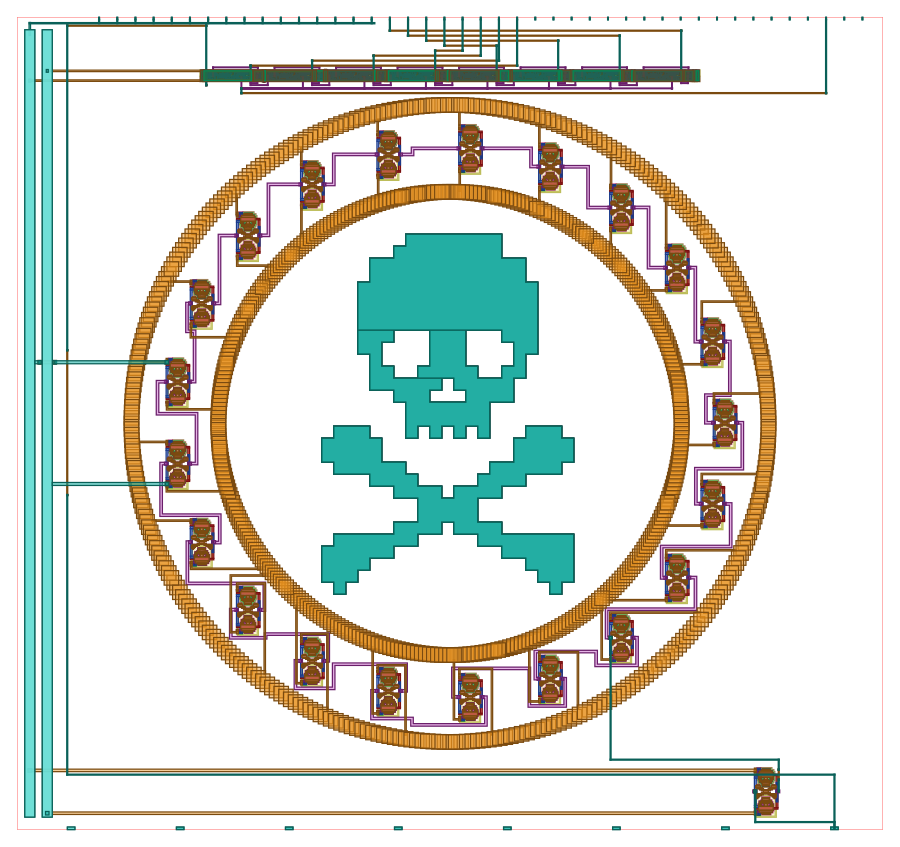
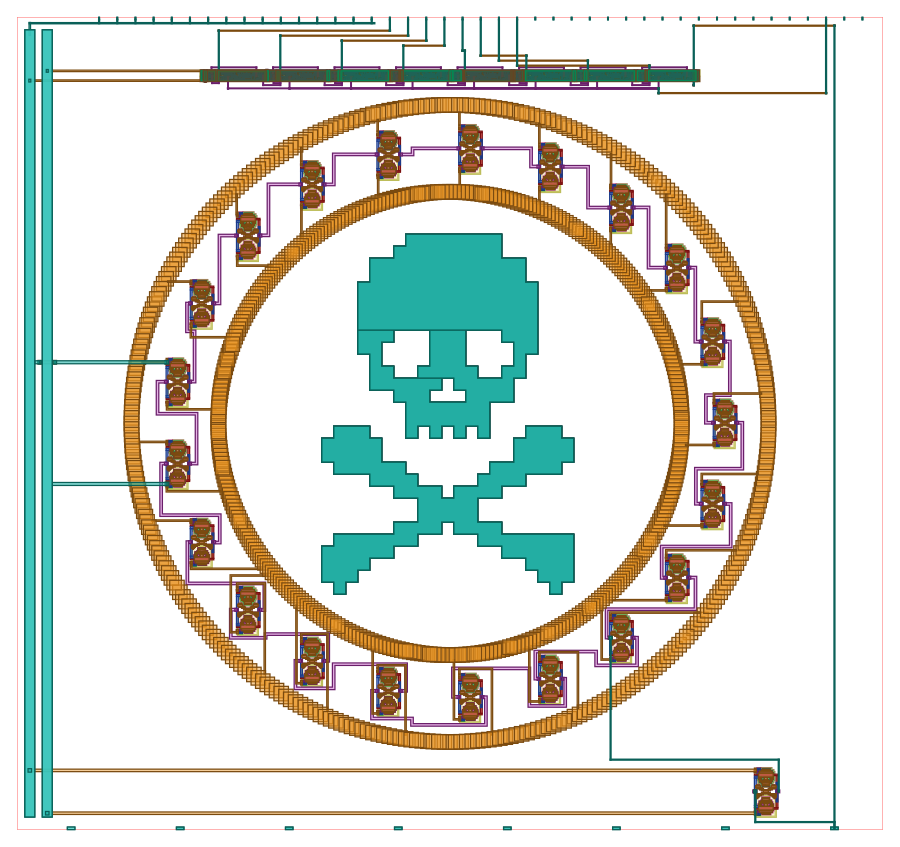
Mirror divider: LSB-first outputs that no longer cross, shorter clock
Horizontally mirror the std-cell divider row (x_reflection + 180°) so the
/2..256 stages line up with the pin order. The eight output taps now fan
straight down without crossing, and the clock rises up the free right edge
from the buffered ua[0] node (no left-edge detour, no Metal3 dip). Routing
drops from M4 147/M3 62 to M4 139/M3 56 shapes; the buffer OSC->A route
loses its dip too.

Also probe ua[0] directly in sim_ring.sh instead of a fragile internal
"a_*" ring node (the heuristic re-selected a /32 node after rebuild),
and fix the divider row labels to LSB-first. Post-layout SPICE: ua[0]
120.2 MHz, uo_out[0]=/2 60 MHz .. uo_out[7]=/256 0.47 MHz; Magic DRC 0.

diff --git a/scripts/build_gf180_macro.py b/scripts/build_gf180_macro.py
@@ -133,11 +133,8 @@ def add_ua_buffer(lib, top, pins, osc_xy):
     ox, oy = osc_xy
 
     # OSC -> A: down beside the ring, over the TOP of the buffer, then down into A (A and Y are at
-    # the same y, so approach A from above to avoid crossing the Y output). Dip to M3 across the
-    # divider's clock route (the M4 horizontal at y~22, which is on the ua[0]/output net).
-    _wire(top, [(ox, oy), (ox, BY + 13.0), (A[0], BY + 13.0), (A[0], 24.0)], w=0.4, layer=M4)
-    _via(top, A[0], 24.0, [M3, M4]); _wire(top, [(A[0], 24.0), (A[0], 20.0)], w=0.4, layer=M3)
-    _via(top, A[0], 20.0, [M3, M4]); _wire(top, [(A[0], 20.0), A], w=0.4, layer=M4)
+    # the same y, so approach A from above to avoid crossing the Y output).
+    _wire(top, [(ox, oy), (ox, BY + 13.0), (A[0], BY + 13.0), A], w=0.4, layer=M4)
     _via(top, *A, [M2, M3, M4])      # A already has a Metal2 pad; just via M2->M4
     # Y -> ua[0]: out the bottom of the buffer, across to the ua[0] pin
     _wire(top, [Y, (Y[0], BY - 12.0), (ua0_cx, BY - 12.0), (ua0_cx, 0.5)], w=0.4, layer=M4)
@@ -169,22 +166,23 @@ def tie_unused_low(top, pins, H):
 
 
 def add_divider(lib, top, pins, cx, cy, H, osc_xy):
-    """Place the N-stage /2../256 std-cell ripple divider centred in the top strip and wire it up.
+    """Place the N-stage /2../256 std-cell ripple divider in the top strip and wire it up.
 
-    Centred under the uo_out pin cluster. Mapping is LSB-first: stage j (DIV2^(j+1)) -> uo_out[j]
-    (uo_out[0]=/2 .. uo_out[N-1]=/256). Stages run left->right but pins run right->left, so these
-    routes cross; the M3-track (unique y) / M4-riser (unique x) discipline keeps crossings
-    short-free.
+    The row is built /2-leftmost but placed MIRRORED, so /2 ends up rightmost (next to uo_out[0])
+    and /256 leftmost. Mapping is LSB-first: stage j (DIV2^(j+1)) -> uo_out[j] (uo_out[0]=/2 ..
+    uo_out[N-1]=/256). The stage order now matches the pin order, so the output routes DON'T cross,
+    and CLK lands on the right next to ua[0] (short clock route). M3 = horizontal tracks (unique
+    y), M4 = vertical risers (unique x).
     """
     pdk_root = os.environ.get("PDK_ROOT", "")
     divcell, dp, std_cells = BD.build_divider(BD.STD_GDS_DEFAULT, pdk_root)
     lib.add(divcell, *std_cells)
     W = dp["_width"]; N = dp["_nstages"]
-    DX0, DY0 = round(cx - W / 2, 2), 300.0      # centred -> symmetric, non-crossing output fan
-    top.add(gdstk.Reference(divcell, (DX0, DY0)))
+    DX0, DY0 = round(cx - W / 2, 2), 300.0      # centred under the uo_out pins
+    top.add(gdstk.Reference(divcell, (DX0 + W, DY0), rotation=math.pi, x_reflection=True))
 
     def P(name):
-        v = dp[name]; return (DX0 + v[0], DY0 + v[1])
+        v = dp[name]; return (DX0 + W - v[0], DY0 + v[1])   # mirror: x flips, y unchanged
     pinrect = {n: r for (n, d, r) in pins}
     pin_cx = lambda n: (pinrect[n][0] + pinrect[n][2]) / 2
     def mvia(x, y): _via(top, x, y, [M3, M4])
@@ -206,12 +204,13 @@ def add_divider(lib, top, pins, cx, cy, H, osc_xy):
     VGND_X, VDPWR_X = VGND_SX + STRIPE_W / 2, VDPWR_SX + STRIPE_W / 2
     rail_vss, rail_vdd = DY0, DY0 + 3.9
     PW = 0.6                                     # power strap width (50% wider than the old 0.4um)
-    # inter-cell filltie columns (clear of the DFF Q risers) for the power taps
-    ties = [DX0 + BD.CAP_W + BD.DFF_W + BD.TIE_W + BD.INV_W + BD.TIE_W / 2
-            + j * (BD.DFF_W + 2 * BD.TIE_W + BD.INV_W) for j in range(N)]
+    # inter-cell filltie columns (clear of the DFF Q risers), mirrored; tap the two LEFTMOST ones
+    # so the straps to the left-edge stripes stay short.
+    ties = [DX0 + W - (BD.CAP_W + BD.DFF_W + BD.TIE_W + BD.INV_W + BD.TIE_W / 2
+            + j * (BD.DFF_W + 2 * BD.TIE_W + BD.INV_W)) for j in range(N)]
 
     # --- power: VSS rail -> VGND stripe, VDD rail -> VDPWR stripe (both on the left edge) ---
-    vss_tap, vdd_tap = ties[0], ties[1]
+    vss_tap, vdd_tap = ties[-1], ties[-2]
     beefy(vss_tap, rail_vss, [M1, M2, M3])
     _wire(top, [(vss_tap, rail_vss), (VGND_X, rail_vss)], w=PW, layer=M3)
     beefy(VGND_X, rail_vss, [M3, M4])
@@ -224,17 +223,13 @@ def add_divider(lib, top, pins, cx, cy, H, osc_xy):
     t_clk = DY0 + 22.0                                   # 322
     t_rn = DY0 - 5.0                                     # 295 (below the row, above the ring)
 
-    # --- clock: OSC up the left edge to CLK (leftmost stage), M3 dip across the two left-edge
-    #     supply connectors (VDPWR ~138, VGND ~187) ---
+    # --- clock: ua[0] (buffered OSC) up the FREE right edge to CLK (the mirror put CLK on the
+    #     rightmost stage, next to ua[0]) ---
     ua0r = next(r for (n, d, r) in pins if n == "ua[0]")
     tapx = (ua0r[0] + ua0r[2]) / 2
-    csx = 20.0
     ck = P("CLK")
-    _wire(top, [(tapx, 0.5), (tapx, 22.0), (csx, 22.0)], w=0.4, layer=M4)
-    _wire(top, [(csx, 22.0), (csx, 134.0)], w=0.4, layer=M4)
-    mvia(csx, 134.0); _wire(top, [(csx, 134.0), (csx, 192.0)], w=0.4, layer=M3)
-    mvia(csx, 192.0); _wire(top, [(csx, 192.0), (csx, t_clk)], w=0.4, layer=M4)
-    mvia(csx, t_clk); _wire(top, [(csx, t_clk), (ck[0], t_clk)], w=0.4, layer=M3)
+    _wire(top, [(tapx, 0.5), (tapx, t_clk)], w=0.4, layer=M4)
+    mvia(tapx, t_clk); _wire(top, [(tapx, t_clk), (ck[0], t_clk)], w=0.4, layer=M3)
     mvia(ck[0], t_clk); _wire(top, [(ck[0], t_clk), (ck[0], ck[1])], w=0.4, layer=M4)
     _via(top, ck[0], ck[1], [M2, M3, M4])
 
@@ -245,9 +240,8 @@ def add_divider(lib, top, pins, cx, cy, H, osc_xy):
     _wire(top, [(rn[0], t_rn), (rn[0], rn[1])], w=0.4, layer=M4)
     _via(top, rn[0], rn[1], [M2, M3, M4])
 
-    # --- N outputs: stage j (DIV2^(j+1)) -> uo_out[j], i.e. uo_out[0]=/2 (LSB) .. uo_out[7]=/256.
-    # The stages run left->right (/2 .. /256) but the pins run right->left, so these routes cross;
-    # the M3-track (unique y) / M4-riser (unique x) discipline keeps every crossing short-free. ---
+    # --- N outputs: stage j (DIV2^(j+1)) -> uo_out[j] (uo_out[0]=/2 .. uo_out[7]=/256). With the
+    # mirror the stage order matches the pin order, so these routes fan without crossing. ---
     for j in range(N):
         qx, qy = P(f"DIV{2 ** (j + 1)}")
         pin = f"uo_out[{j}]"

diff --git a/DESIGN.md b/DESIGN.md
@@ -71,9 +71,10 @@ connectivity is geometric. Both power stripes sit on the **left** die edge (VGND
 just inside it), matching the original IHP arrangement so the TT power grid — which enters from the
 left — connects without strips reaching across the skull. They run ~97% of the die height. The two
 supply connectors land on left-side ring pads at well-separated angles (different y); the VGND
-connector hops the VDPWR stripe on a short Metal3 dip (outside the ring, clear of the Metal3 rings),
-and the divider's clock riser dips to Metal3 across both connectors. Verified after the move: VGND
-and VDPWR remain separate nets, every ring pfet body + std-cell rail stays tied, nothing floats.
+connector hops the VDPWR stripe on a short Metal3 dip (outside the ring, clear of the Metal3 rings).
+With the divider mirrored, the clock riser now climbs the free **right** edge to the CLK pin and
+never touches the left-side connectors. Verified after the move: VGND and VDPWR remain separate
+nets, every ring pfet body + std-cell rail stays tied, nothing floats.
 
 The KLayout FEOL/BEOL/offgrid/antenna decks need the KLayout binary (not the Python module) and run
 in CI; magic DRC runs clean locally.
@@ -86,12 +87,16 @@ The cells are abutted into a continuous row with **`filltie`** cells between eve
 **`endcap`** cells at the ends — these tie Nwell→VDD and Pwell→VSS (the std cells expose VNW/VPW
 only as well layers, so without these taps the wells float and the cells don't work).
 
-The DFF's Q sits on the right and CLK on the left, so the ripple chain hops left→right with short
-clock wires and the clock enters at the **left** end. `add_divider` **centres** the row so the
-outputs reach the pin cluster with minimal fan. The mapping is **LSB-first** —
-`uo_out[0]=÷2` .. `uo_out[7]=÷256`; since the stages run left→right (÷2..÷256) but the pins run
-right→left, these output routes **cross**, but the Metal3-track (unique y) / Metal4-riser (unique x)
-discipline keeps every crossing short-free. `osc_out` is no longer on a `uo_out` pin (the raw
+The DFF's Q sits on the right and CLK on the left, so the ripple chain hops with short clock wires.
+The whole row is **horizontally mirrored** (`add_divider` places the cell with `x_reflection` +
+180° rotation) so the ÷2 stage ends up on the **right** and ÷256 on the **left**, matching the
+pin order. `add_divider` **centres** the row so the outputs reach the pin cluster with minimal fan.
+The mapping is **LSB-first** — `uo_out[0]=÷2` .. `uo_out[7]=÷256`; because the mirror puts the stage
+order in the same direction as the pin order, the eight output routes **fan straight down without
+crossing** (the Metal3-track / Metal4-riser discipline still guards every remaining crossing — e.g.
+the supply taps — but the divider taps themselves no longer cross). The mirror also frees the right
+edge, so the clock rises straight up from the buffered `ua[0]` node to the (now right-hand) CLK pin
+— no left-edge detour and no Metal3 dip. `osc_out` is no longer on a `uo_out` pin (the raw
 oscillation is on `ua[0]`). The divider's VDD/VSS rails are
 strapped to VDPWR/VGND on filltie columns (straps widened to 0.6 µm, 2-cut vias — cheap EM/IR
 margin). **Watch the strap far-end:** it must use the *die* width (`2*cx`), not the local divider

diff --git a/AGENTS.md b/AGENTS.md
@@ -56,8 +56,10 @@ and the precheck**, and confirm nothing floats (see rules below).
   floating n-wells.) After a layout change, the raw extraction must contain **no** `.VDD/.VSS/.VNW/
   .VPW` or floating `w_*` well nets.
 - **Routing discipline** (`add_divider`, `add_ua_buffer`): Metal3 = horizontal tracks (unique y per
-  net), Metal4 = vertical risers (unique x). Different-net M3×M4 crossings can't short — keep it so;
-  watch crossings against the clock route, which carries the `ua[0]`/output net.
+  net), Metal4 = vertical risers (unique x). Different-net M3×M4 crossings can't short — keep it so.
+  The divider is horizontally mirrored so the ÷2..÷256 stages line up with the pin order: the eight
+  output taps fan straight down without crossing, and the clock rises up the free **right** edge from
+  the buffered `ua[0]` node (no left-edge detour, no Metal3 dip).
 - **Implant polarity follows the original p-select (pSD), not Nwell membership** (`regen_implants`
   in `remap_to_gf180.py`): keying off Nwell buries the n+ n-well taps and floats the pfet bodies.
 - **Both power stripes sit on the LEFT edge** (VGND leftmost, VDPWR just inside), spanning ~97 % of